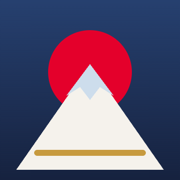
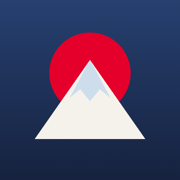
PWA instalable en iPhone y Android (manifest + iconos)
- Añadido web app manifest (display standalone) e iconos 192/512 (maskable).
- index.html: iconos por archivo + manifest; sin base64 del icono.
- README reescrito: instalación en iPhone (Safari) y Android (Chrome), despliegue.

Changed region(s): [[0.0833, 0.3333, 0.9167, 0.9444], [0.25, 0.1667, 0.75, 0.5278], [0.4722, 0.5278, 0.5278, 0.5556]]

diff --git a/index.html b/index.html
@@ -7,10 +7,11 @@
 <meta name="apple-mobile-web-app-capable" content="yes">
 <meta name="apple-mobile-web-app-status-bar-style" content="black-translucent">
 <meta name="apple-mobile-web-app-title" content="Japón 2026">
[3 lines of base64/hex data omitted]
 <meta name="mobile-web-app-capable" content="yes">
+<link rel="manifest" href="manifest.webmanifest">
+<link rel="apple-touch-icon" sizes="180x180" href="apple-touch-icon.png">
+<link rel="icon" type="image/png" sizes="192x192" href="icon-192.png">
+<link rel="icon" type="image/png" sizes="512x512" href="icon-512.png">
 <title>🇯🇵 Nipones al Abordaje 2026</title>
 <!-- ============================================================= -->
 <!--  APP DE VIAJE · 100% OFFLINE · UN SOLO ARCHIVO                 -->

diff --git a/README.md b/README.md
@@ -1,72 +1,87 @@
 # 🇯🇵 Nipones al Abordaje 2026 — App de viaje
 
-App de viaje **en un solo archivo** (`nipones-2026.html`). Funciona **100 % sin internet**:
-todo (diseño, datos y lógica) va dentro del propio archivo. No necesita instalación, ni servidor, ni conexión.
+Web-app de viaje (`index.html`) que se abre desde una **URL** y se puede **instalar como app** en
+**iPhone y Android** (pantalla completa, con icono propio). Es una **PWA**: lleva un *web app manifest*
+e iconos para que tanto Safari como Chrome la añadan a la pantalla de inicio.
+
+> Esta versión es **pública y anónima** (para compartir con el grupo). Necesita **conexión** para
+> abrirse (está hospedada en una URL); las fotos y los datos van dentro de la propia app.
 
 ---
 
-## 📲 Cómo llevarla en el iPhone
+## 📲 Cómo instalarla (iPhone y Android)
 
-1. **Pasa el archivo `nipones-2026.html` al iPhone** (por AirDrop, email, WhatsApp a ti mismo, o iCloud Drive).
-2. Guárdalo en la app **Archivos** (en "iCloud Drive" o "En mi iPhone").
-3. Ábrelo: toca el archivo → se abre en **Safari**. ¡Listo, ya funciona sin datos!
+Abre la **URL** de la app en el navegador y añádela a la pantalla de inicio:
 
-### (Opcional) Tenerla como una app con icono
-Para lanzarla rápido desde la pantalla de inicio:
-1. Ábrela en Safari.
+**iPhone (Safari):**
+1. Abre la URL en **Safari**.
 2. Toca **Compartir** (cuadro con flecha ↑) → **Añadir a pantalla de inicio**.
-3. Aparecerá un icono "Japón 2026" que abre la app a pantalla completa.
+3. Aparece el icono **"Japón 2026"**; se abre a pantalla completa, como una app.
 
-> 💡 Funciona igual en Android (abrir con Chrome) y en cualquier ordenador (doble clic).
+**Android (Chrome):**
+1. Abre la URL en **Chrome**.
+2. Menú **⋮** → **Instalar aplicación** (o **Añadir a pantalla de inicio**).
+3. Aparece el icono **"Japón 2026"**; se abre a pantalla completa, como una app.
+
+> 💡 También funciona simplemente abriéndola en cualquier navegador (móvil o PC), sin instalar.
 
 ---
 
 ## 🧭 Qué incluye
 
-- **Inicio** — saludo, tarjeta de "Hoy" (o cuenta atrás antes del viaje) con **ilustración**, plan de mañana y accesos rápidos.
-- **Días** — las 18 jornadas (previo + viaje de ida + 15 días + regreso), cada una con **imagen** y estado *Hoy / Hecho / Próximo*.
-- **Día** — cabecera con foto, horarios bloque a bloque con una **curiosidad 💡 en cada visita**, traslados, hotel/barco de la noche, **"¿Sabías que…?"** y **"Para probar"** (gastronomía), botón *Abrir en Maps* y marcar como completado.
+- **Inicio** — saludo, tarjeta de "Hoy" (o cuenta atrás antes del viaje) con foto, plan de mañana y accesos rápidos.
+- **Días** — las 17 jornadas (viaje de ida + 15 días + regreso), cada una con **foto** y estado *Hoy / Hecho / Próximo*.
+- **Día** — cabecera con foto, horarios bloque a bloque con una **curiosidad 💡 en cada visita**, hotel/barco de la noche, **"¿Sabías que…?"** y **"Para probar"** (gastronomía), botón *Abrir en Maps* y marcar como completado.
 - **Viaje** — vuelos Qatar (horarios de ida y vuelta y enlaces al aeropuerto en Maps).
-- **Hoteles** — fichas con *Maps / Llamar / Email / Web* y código de reserva.
-- **¥/€** — conversor de moneda (ahora con **botón propio** en la barra inferior), con tipo de cambio editable.
-- **Lugares** — ~38 fichas **con ilustración**, descripción, consejo y dato curioso; filtros por ciudad y favoritos ⭐.
-- **Mapa** — directorio de hoteles, templos, puertos, estaciones… con *Abrir en Maps*.
-- **Frases** — japonés + pronunciación con botón de **audio** 🔊 (voz del iPhone).
-- **SOS** — teléfonos de emergencia (seguro, Jesús, embajada, 110/119) con llamada directa y "qué hacer si…".
+- **Hoteles** — fichas con *Maps / Llamar / Email / Web*.
+- **¥/€** — conversor de moneda con tipo de cambio editable (botón propio en la barra inferior).
+- **Lugares** — ~38 fichas **con foto**, descripción, consejo y dato curioso; filtros por ciudad y favoritos ⭐.
+- **Mapa** — directorio de hoteles, templos, puertos… con *Abrir en Maps*.
+- **Frases** — japonés + pronunciación con botón de **audio** 🔊 (voz del propio móvil).
+- **SOS** — teléfonos de emergencia (seguro, Embajada de España en Tokio, 110/119 de Japón) con llamada directa y "qué hacer si…".
 - **Checklist antes del viaje** — lista de equipaje marcable (se guarda lo marcado).
 
 El **botón 🆘 rojo** está siempre visible en pantalla.
 
-### 📷 Fotos reales (incrustadas)
-La app lleva **fotos reales** de cada ciudad y lugar **incrustadas dentro del propio archivo** (en base64), así que
-**se ven sin conexión**. El archivo pesa ~1 MB (comprimido a propósito para que **abra bien en la vista previa de Archivos**).
-Las imágenes proceden de **Wikimedia Commons / Wikipedia** (licencias libres). Además, la **app arranca antes de cargar las
-fotos**: si el móvil tarda con las imágenes, el contenido ya funciona y las fotos aparecen un instante después.
-Si alguna foto no te gusta, dime el lugar y la cambio.
+### 📷 Fotos reales
+Las fotos de cada ciudad y lugar van **dentro de la app** (no se cargan de fuera), proceden de
+**Wikimedia Commons / Wikipedia** (licencias libres) y están comprimidas. La app **arranca antes de
+pintar las fotos**: el contenido funciona enseguida y las imágenes aparecen un instante después.
 
 ---
 
-## ✏️ Cómo editar o completar datos
+## 🚀 Despliegue (hosting)
 
-Abre `nipones-2026.html` con cualquier editor de texto y busca **`DATA`** (cerca del inicio del bloque `<script>`).
-Los datos están en objetos fáciles de tocar: `TRIP`, `DAYS`, `FLIGHTS`, `TRAINS`, `VANS`, `HOTELS`,
-`PLACES`, `PHRASES`, `EMERGENCY`, `CHECKLIST`. Cambia textos, horas o teléfonos sin tocar el diseño.
+Sube/sirve **toda la carpeta** (no solo el HTML) para que la instalación con icono funcione:
 
-### Pendiente de añadir (cuando lo tengas)
-- **Certificado individual del seguro** (nº de certificado, nombres de asegurados y fechas de cobertura).
-- Teléfono del **Hotel Villa Fontaine (Tokio)** si lo facilita el organizador.
-- Localizadores de crucero/vuelos *(los gestiona el organizador; la app ya lo indica)*.
+```
+index.html              ← la app
+manifest.webmanifest    ← define nombre, icono y modo "app" (Android)
+apple-touch-icon.png    ← icono para iOS (180×180)
+icon-192.png            ← icono PWA (Android)
+icon-512.png            ← icono PWA (Android)
+```
 
-### Añadir un PDF para verlo sin internet
-Como es un archivo offline, un PDF se puede **incrustar en base64** dentro del HTML (engorda el archivo;
-solo recomendable para 1–2 documentos clave, p. ej. la póliza). Dímelo y lo integro.
+- **GitHub Pages:** Settings → Pages → *Deploy from a branch* → `main` → `/ (root)`.
+  El repo debe ser **público** (Pages gratis solo en repos públicos). URL: `https://<usuario>.github.io/<repo>/`.
+- **Cualquier host estático / túnel:** sirve la carpeta entera. Si solo sirves `index.html`,
+  la app abre igual, pero Android no podrá instalarla con icono (le falta el manifest/iconos).
+
+---
+
+## ✏️ Cómo editar los datos
+
+Abre `index.html` con un editor de texto y busca **`DATA`** (al principio del bloque `<script>`).
+Los datos están en objetos fáciles de tocar: `TRIP`, `DAYS`, `FLIGHTS`, `HOTELS`, `PLACES`,
+`PHRASES`, `EMERGENCY`, `CHECKLIST`. Cambia textos, horas o teléfonos sin tocar el diseño.
 
 ---
 
 ## 🔒 Notas
 
-- Los **enlaces de Maps** abren la app de mapas y necesitan conexión puntual; el resto funciona sin datos.
-- El **audio** usa la voz japonesa del iPhone (Ajustes → Accesibilidad → Contenido leído → Voces, si no la oyes).
-- Tus marcas (días hechos, checklist, favoritos, tipo de cambio) se guardan **en tu móvil** (no se comparten).
+- Los **enlaces de Maps** abren la app de mapas (necesitan conexión).
+- El **audio** de las frases usa la voz japonesa del móvil (si no está instalada, muestra solo la pronunciación).
+- Tus marcas (días hechos, checklist, favoritos, tipo de cambio) se guardan **en tu dispositivo** (no se comparten).
+- Versión pública **anonimizada**: no incluye datos personales (localizadores, teléfonos privados, direcciones).
 
 ¡Buen viaje! よい旅を (yoi tabi o) 🎌